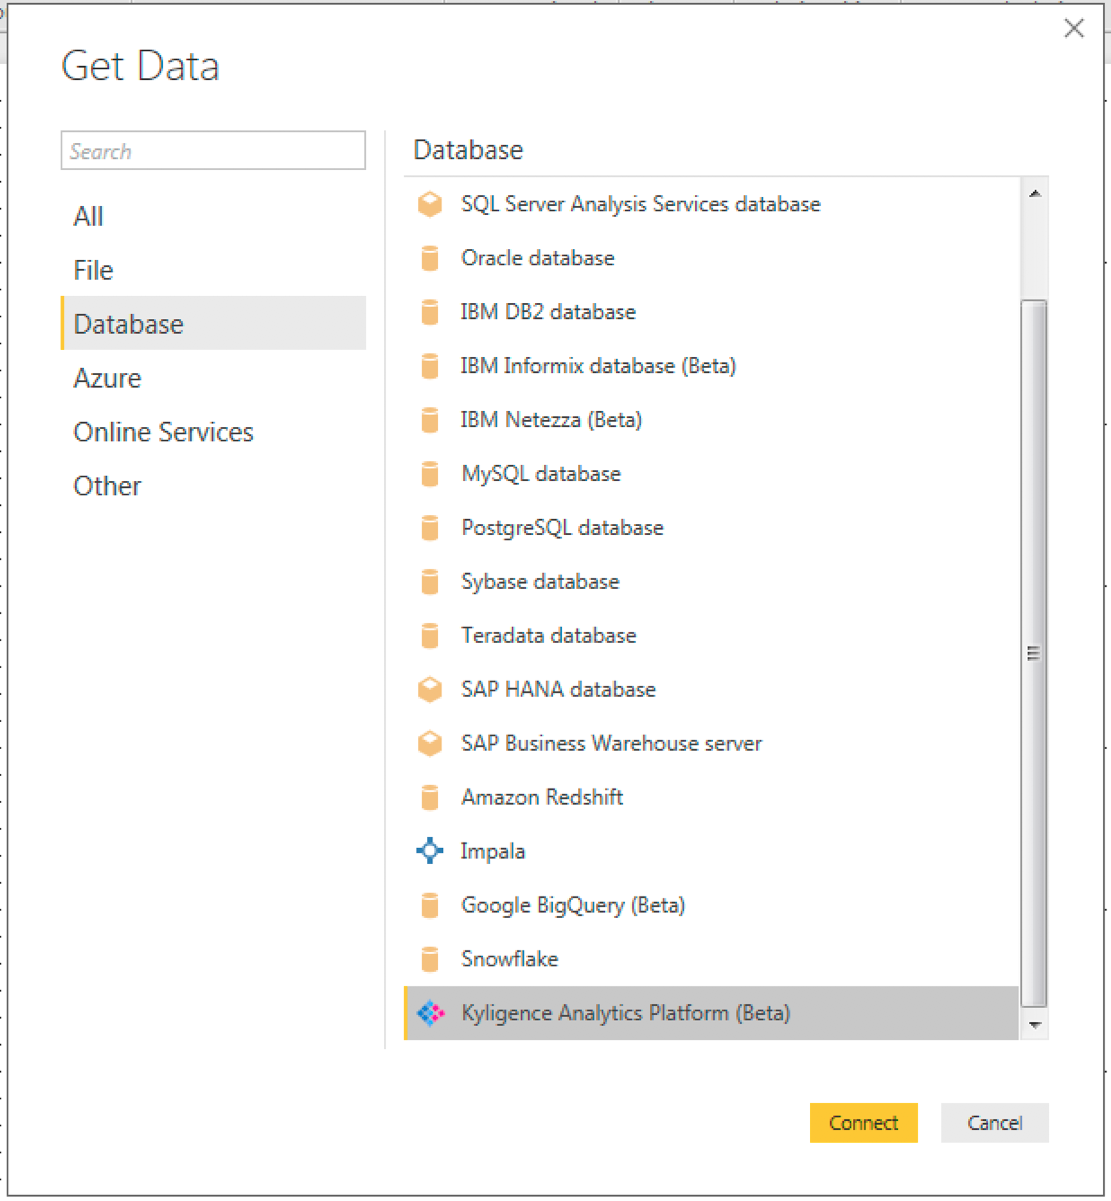
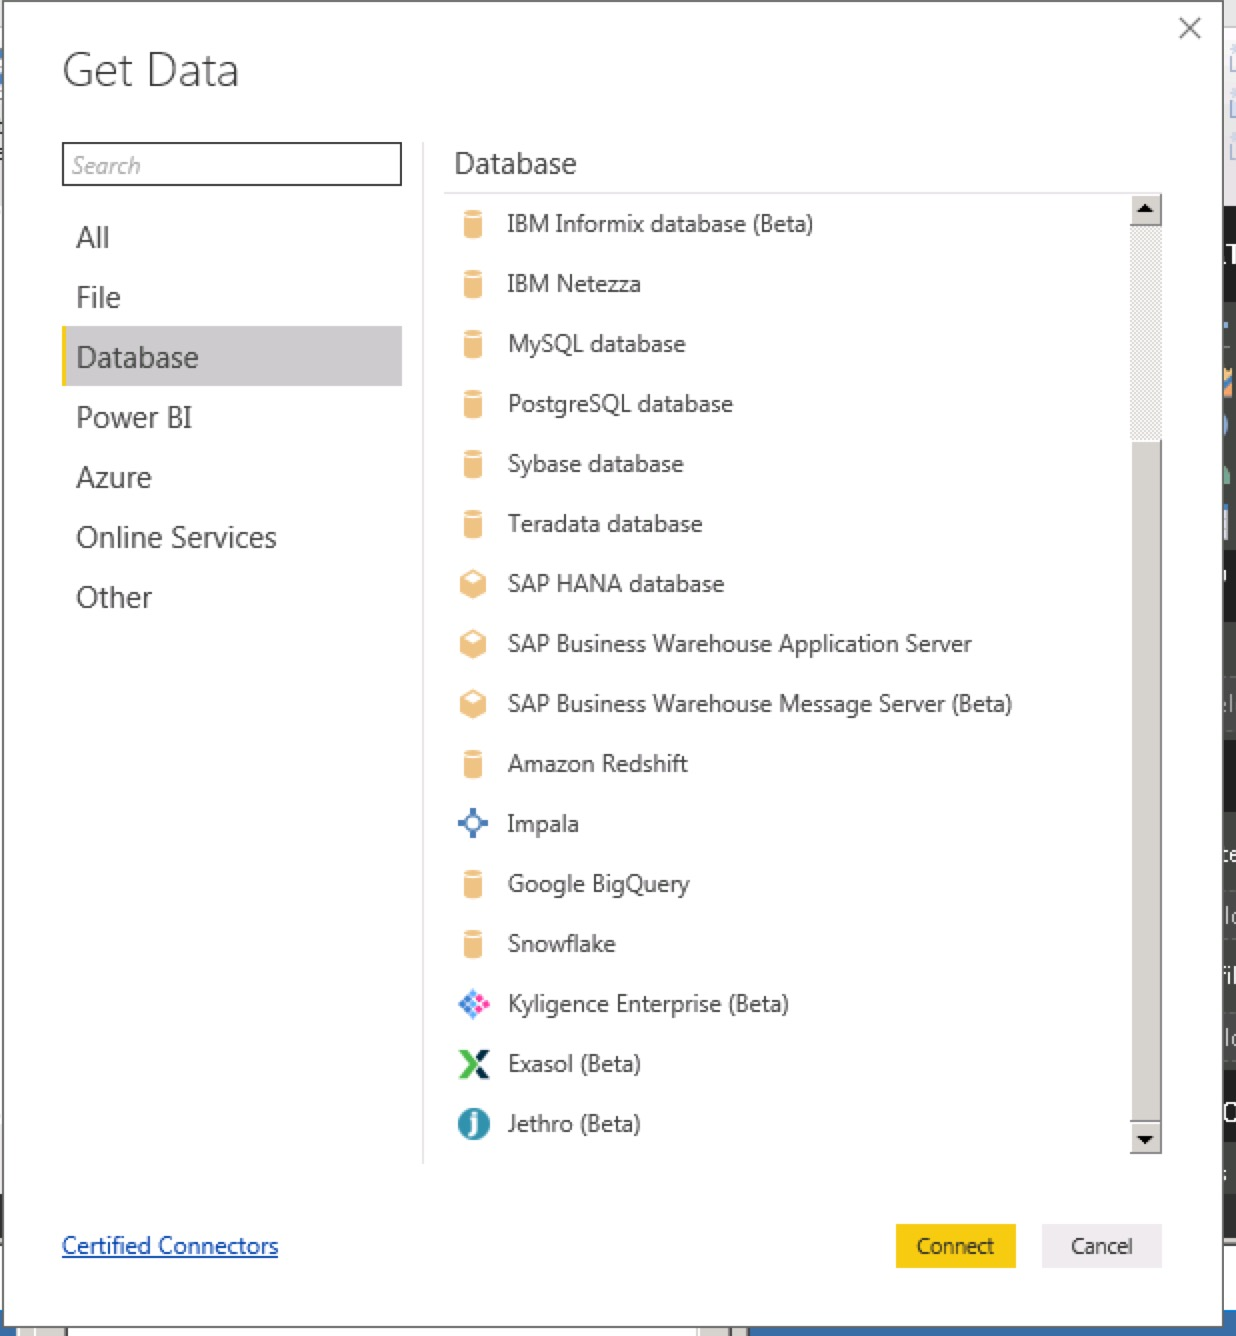
add the docs integrate powerbi service (#473)
* add the docs integrate powerbi service by jinghua.feng

* add the docs integrate powerbi service

* fix docs error message,change powerbi desktop from kap to Kyligence Enterprise

* remove extra spaces and modify statement logic

* modify statement logic

diff --git a/en/integration/powerbi_service.en.md b/en/integration/powerbi_service.en.md
@@ -1,0 +1,54 @@
+## Integration With Power BI Service
+
+Microsoft Power BI service is also named as Power BI online, which is an online SaaS service with strong analytical capabilities and collaborative management capabilities. It can easily collaborates with Power BI Desktop or Power BI Mobile to build an enterprise BI platform.
+
+![Power BI Desktop,Microsoft Power BI Service,Microsoft Power BI Mobile relationship](images/powerbi/Picture_PBI_SERVIECE_07.png)
+
+This article will guide you to connect Kyligence Enterprise with Power BI service.
+
+
+### Integration With Power BI Desktop
+
+To analyze and share the reports on Power BI service, which are published through Power BI Desktop, you need to integrate the Power BI Desktop with Kyligence at first. The relevant installation and configuration information, please refer to following link for details: [Power BI Desktop integration](powerbi.cn.md). NOTE: Power BI Desktop is linked to Power BI service through Power BI account, you need to guarantee that Power BI Desktop is at correct log-in status before deploying the reports on Power BI service platform. 
+
+### Install Gateway
+
+Power BI service communicates with local server by Gateway, you can refer this guide [Gateway installation](https://docs.microsoft.com/zh-cn/power-bi/service-gateway-install) for installation. Note: Gateway does not need to be installed on the same machine as Power BI Desktop, but the machine network running the Gateway should be open and access to data source configured by Kyligence Enterprise Data Connector for Power BI.
+
+### Configure Gateway
+
+1.After completing the Gateway installation, you can open the administrator command prompt and run ```net start PBIEgwService``` to start the Gateway service. Then you can double-click the *On-premises data gateway* program icon       to configure Gateway. you can also run ```net stop PBIEgwService``` command to stop the Gateway service.
+
+2.Configure Kyligence Enterprise Data Connector for Gateway:
+
+a) Create a directory, which Gateway could access to, to store the connector. (Please do not create this directory in unaccessible or system folders.) 
+
+b) Download the Kyligence Enterprise Data Connector for Power BI plug-in from [Kyligence Download Page](http://download.kyligence.io/#/products) and put it under new-created directory. 
+
+![Custom data connectors](images/powerbi/Picture_PBI_SERVIECE_01.png)
+
+For more configure information, you can refer to [Custom Connectors](https://docs.microsoft.com/en-us/power-bi/service-gateway-custom-connectors).
+
+### Power BI Service Manage Gateway
+
+1.After logging into Power BI service, you can check the **Allow user's custom data connectors to refresh through this gateway cluster** select box and click the **Apply** button in Gateway page. Then you can add the Kyligence Enterprice connector in Gateway cluster.
+
+![allow the custom data connector](images/powerbi/Picture_PBI_SERVIECE_08.png)
+
+2.After success Gateway installation, please click the Gear setting icon on Power BI service page:->**Manage gateways**->**ADD DATA SOURCE**: select Kyligence Enterprise data sources
+
+![Add Data Source](images/powerbi/Picture_PBI_SERVIECE_03.png)
+
+3.DATA SOURCE CONFIGURATION: Please keep the configuration information of DATA SOURCE same as the connection information between Power BI Desktop and Kyligence Enterprise Data Connector for Power BI.
+
+![Configure Data Source](images/powerbi/Picture_PBI_SERVIECE_04.png)
+
+4.You can click the **Users** tab at right side of **Data Source Settings** to add users for DATA SOURCE. Then, the new-added users will have editor access, including report deployment.
+
+### Publish Reports on Power BI Service
+
+After completing all configuration work of Gateway, you can edit your reports and publish them in assigned workspaces on Power BI Desktop. Then, you can make analysis or changes reports in Power BI Service workspaces.
+
+![Publish Reports](images/powerbi/Picture_PBI_SERVIECE_05.png)
+
+![Publish Reports](images/powerbi/Picture_PBI_SERVIECE_06.png)

diff --git a/zh-hans/integration/powerbi_service.cn.md b/zh-hans/integration/powerbi_service.cn.md
@@ -1,0 +1,56 @@
+## 与 Power BI Service 集成
+
+Microsoft Power BI Service 也被称为 Power BI online，是一个具有强大的分析能力及协作管理能力的在线 SaaS 服务。可以轻松与 Power BI Desktop 或 Power BI Mobile 进行协作，搭建企业级 BI 平台。
+
+![Power BI Desktop，Microsoft Power BI Service，Microsoft Power BI Mobile 关系](images/powerbi/Picture_PBI_SERVIECE_07.png)
+
+本文将分步介绍如何使用 Power BI Service 连接 Kyligence Enterprise。
+
+### Power BI Desktop 集成
+
+Power BI service 通过 Power BI Desktop 发布报表，需要已经安装 Power BI Desktop 并集成 Kylingence。关于如何使用 Power BI Desktop 连接 Kyligence Enterprise 的信息请参考页面 [Power BI Desktop 集成](powerbi.cn.md)。
+注意：Power BI service 和 Power BI Desktop 通过 Power BI 账号进行关联，所以在将报表发布到 Power BI service 时，Power BI Desktop 需处于正确的登录状态。
+
+### 安装 Gateway
+
+Power BI service 通过 Gateway 和本地服务器进行通信，您可以通过 Microsoft 的 [Gateway 安装页面](https://docs.microsoft.com/zh-cn/power-bi/service-gateway-install)完成 Gateway 安装。注意：Gateway 不需要和 Power BI Desktop 安装在同一机器上，但需要运行 Gateway 的机器网络通畅且能访问 Kyligence Enterprise Data Connector for PowerBI 配置的数据源。
+
+### 配置 Gateway
+
+1.完成 Gateway 安装后，在运行网关的计算机上，启动管理员命令提示符，运行 ```net start PBIEgwService``` 命令启动 Gateway 服务。启动 Gateway 服务后，您可以通过双击 **On-premises data gateway** 程序图标进行 Gateway 的配置。您也可以通过在运行网关的计算机上，启动管理员命令提示符，运行 ```net stop PBIEgwService``` 命令停止 Gateway 服务。
+
+2.为 Gateway 配置 Kyligence Enterprise Data Connector：
+
+a)创建放置 Connector 的目录，且该目录需能被 Gateway 服务访问(不可创建在没有权限访问的 Windows 用户目录或系统目录下的目录)。
+
+b)在 [Kyligence 下载页面](http://download.kyligence.io/#/products)下载 Kyligence Enterprise Data Connector for Power BI 插件并将插件放入到已创建的目录下。
+
+![配置 Custom data connectors](images/powerbi/Picture_PBI_SERVIECE_01.png)
+
+您也可以参考配置文档：[自定义连接器](https://docs.microsoft.com/en-us/power-bi/service-gateway-custom-connectors)。
+
+### Power BI Service 管理数据源
+
+1.登录 Power BI service 后，在网关页面上勾选**允许用户的自定义连接器通过此网关集群进行刷新**选择框，点击**应用**按钮，这样你就可以加载 Kyligence Enterprise Data Connector 了。
+
+![允许自定义 connector](images/powerbi/Picture_PBI_SERVIECE_08.png)
+
+2.在 Power BI service 页面点击齿轮设置图标，然后点击 Manage gateways->ADD DATA SOURCE，选择 Kyligence Enterprise 数据源。
+
+![新增 Data Source](images/powerbi/Picture_PBI_SERVIECE_03.png)
+
+3.配置 **DATA SOURCE**：DATA SOURCE 的配置信息需与在 Power BI Desktop 上的 Kyligence Enterprise 的连接信息保持一致。
+
+![配置 Data Source](images/powerbi/Picture_PBI_SERVIECE_04.png)
+
+4.您可以在 **Data Source Settings** 的右侧，点击 **Users** 选项，为 DATA SOURCE 增加用户，被增加的用户将拥有发布报表的权限。
+
+### 通过 Power BI Desktop 发布报表到 Power BI Service
+
+Gateway 配置全部完成后，在已登录的 Power BI Desktop 上编辑并保存报表后，点击 Publish 按钮、选择对应的工作区域，即可发布报表到 Power BI service。
+这样，就可以在Power BI service对应的工作区域查看及修改上传的报表。
+
+![报表发布](images/powerbi/Picture_PBI_SERVIECE_05.png)
+
+![查看报表](images/powerbi/Picture_PBI_SERVIECE_06.png)
+

diff --git a/en/integration/powerbi_desktop.en.md b/en/integration/powerbi_desktop.en.md
@@ -22,9 +22,9 @@ For the installation information, please refer to [Kyligence ODBC Driver tutoria
 
 ### Connect Kyligence Enterprise through Power BI Desktop
 
-1.  Start the installed Power BI Desktop, click **Get data -> more**, and then click **Database -> Kyligence Analytics Platform**.
+1.  Start the installed Power BI Desktop, click **Get data -> more**, and then click **Database -> Kyligence Enterprise**.
 
-     ![Select Kyligence Analytics Platform](images/powerbi/Picture5.png)
+     ![Select Kyligence Enterprise](images/powerbi/Picture5.png)
 
 2.  In the pop-up window, type the required database information, and select **DirectQuery** as Data Connectivity mode.
 

diff --git a/zh-hans/SUMMARY.md b/zh-hans/SUMMARY.md
@@ -129,7 +129,9 @@
     * [与BI工具连接](integration/README.md)
         * [Tableau](integration/tableau.cn.md)
         * [Excel ](integration/excel_2018.cn.md)
-        * [Power BI](integration/powerbi.cn.md)
+        * Power BI
+          * [Power BI Desktop](integration/powerbi_desktop.cn.md)
+          * [Power BI Service](integration/powerbi_service.cn.md)
         * [Apache Zeppelin](integration/zeppelin.cn.md)
         * MicroStrategy
           * [MicroStrategy Secure Enterprise](integration/microstrategy_enterprise.cn.md)

diff --git a/en/SUMMARY.md b/en/SUMMARY.md
@@ -131,7 +131,9 @@
     * [Connect with BI tools](integration/README.md)
         * [Tableau](integration/tableau.en.md)
         * [Excel](integration/excel_2018.en.md)
-        * [Power BI](integration/powerbi.en.md)
+        * Power BI
+          * [Power BI Desktop](integration/powerbi_desktop.en.md)
+          * [Power BI Service](integration/powerbi_service.en.md)
         * [Apache Zeppelin](integration/zeppelin.en.md)
         * [Cognos](integration/cognos.en.md)
         * MicroStrategy

diff --git a/en/integration/README.md b/en/integration/README.md
@@ -8,7 +8,10 @@ Following BI tools are covered:
 
 [Excel](excel_2018.en.md)
 
-[Power BI](powerbi.en.md)
+Power BI
+
+* [Power BI Desktop](powerbi.en.md)
+* [Power BI Service](powerbi_service.en.md)
 
 [Apache Zeppelin](zeppelin.en.md)
 
